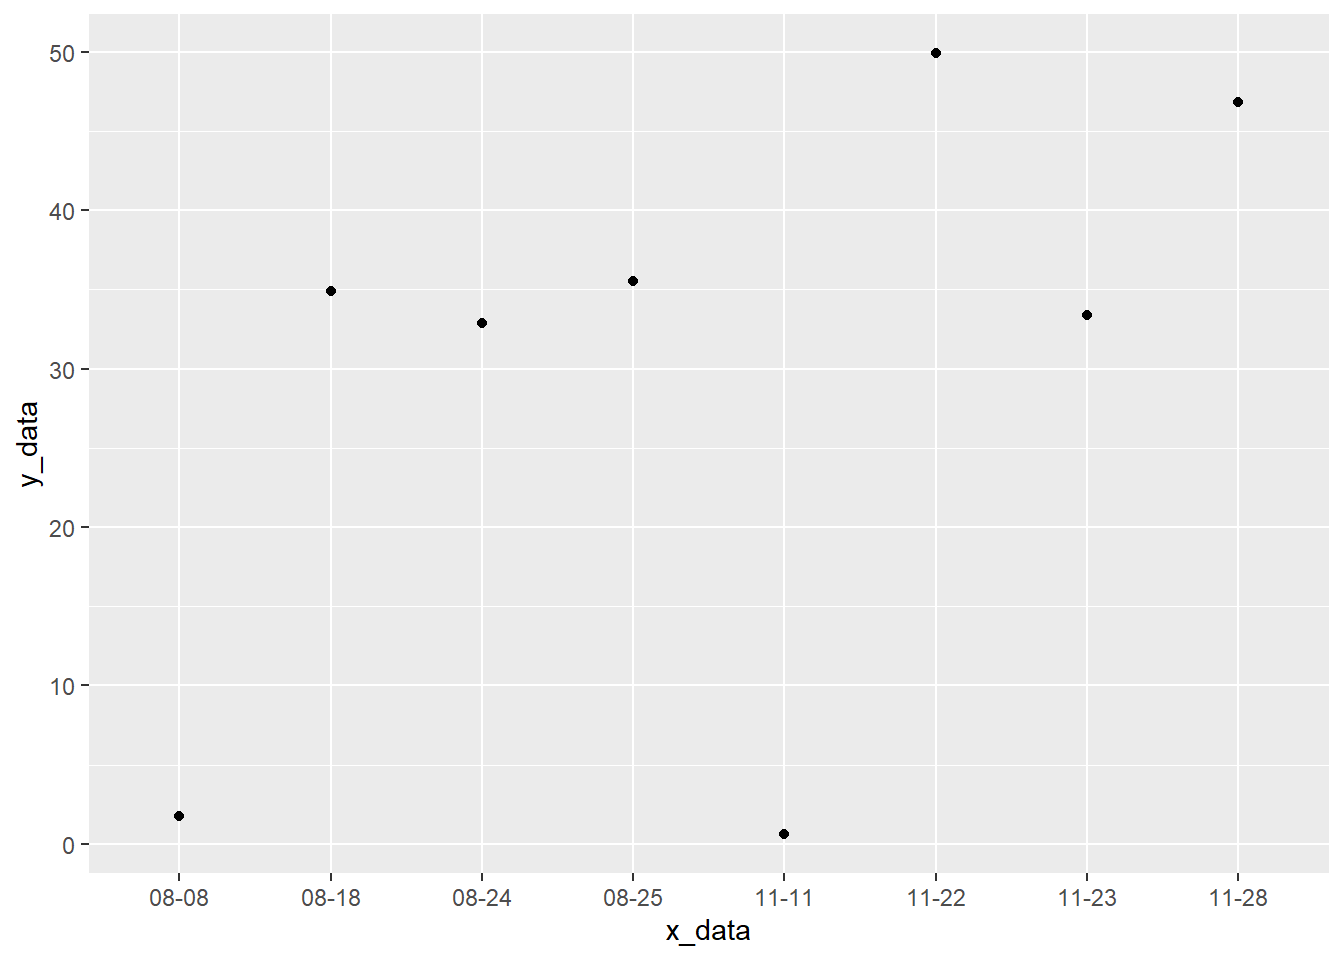
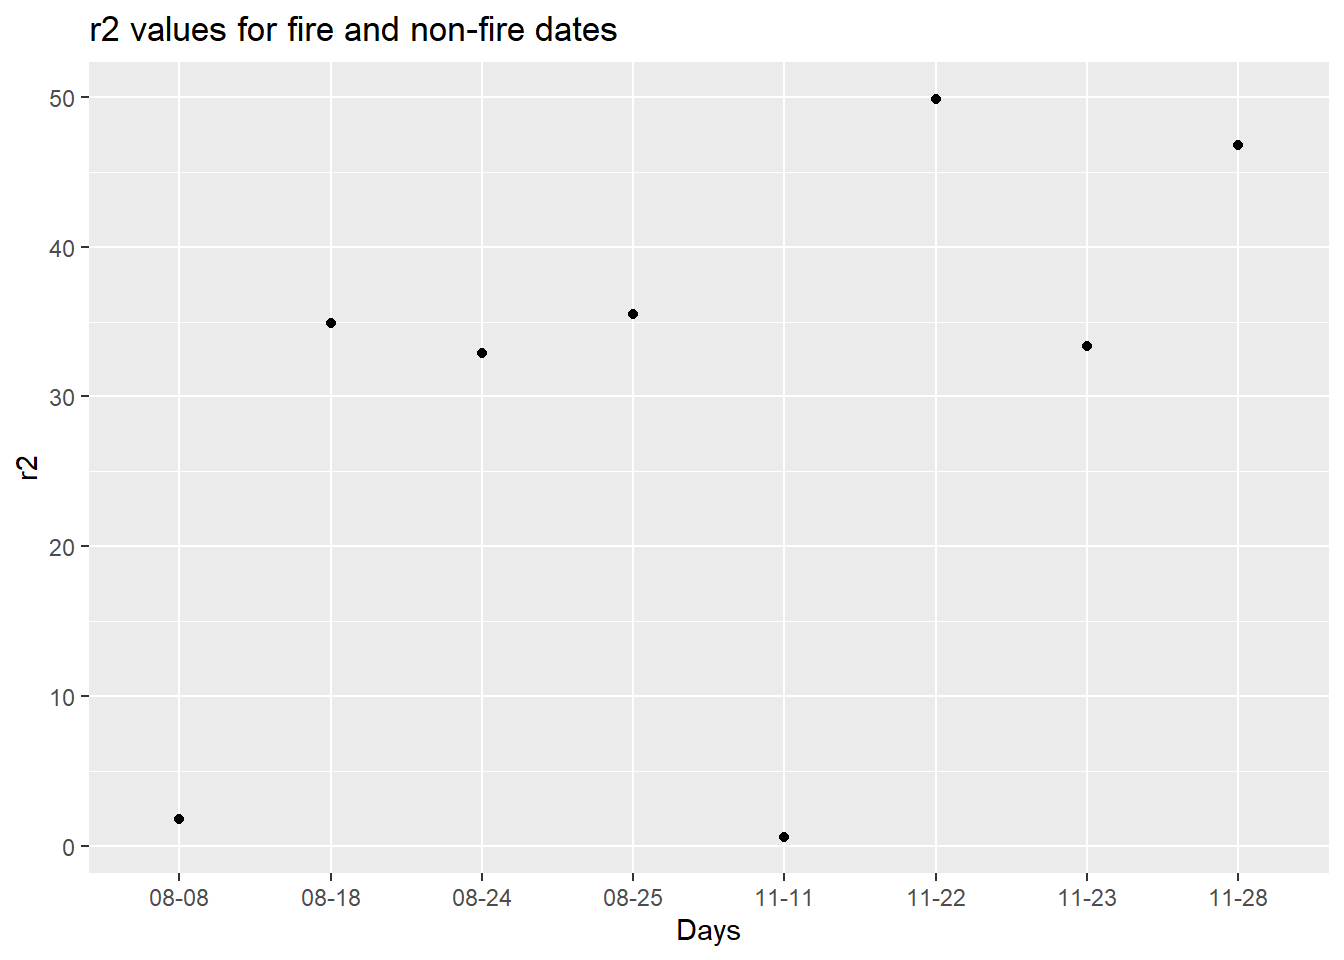
results section added

diff --git a/docs/Proj.html b/docs/Proj.html
@@ -1214,17 +1214,20 @@ abline(h=c(0), col=c(&quot;blue&quot;))</code></pre>
 </div>
 <div id="results-and-discussions" class="section level1">
 <h1>Results and Discussions</h1>
-<div id="regression-analysis-1" class="section level2">
-<h2>Regression Analysis</h2>
-</div>
-<div id="bias-and-error-analysis" class="section level2">
-<h2>Bias and Error Analysis</h2>
-<pre class="r"><code>bias_plot </code></pre>
+<div id="regression-bias-and-error-analysis" class="section level2">
+<h2>Regression, Bias and Error Analysis</h2>
+<pre class="r"><code>r2_plot </code></pre>
 <p><img src="Proj_files/figure-html/unnamed-chunk-65-1.png" width="672" /></p>
 <pre class="r"><code>geos_conc_plot</code></pre>
 <p><img src="Proj_files/figure-html/unnamed-chunk-65-2.png" width="672" /></p>
 <pre class="r"><code>trop_conc_plot</code></pre>
 <p><img src="Proj_files/figure-html/unnamed-chunk-65-3.png" width="672" /></p>
+<pre class="r"><code>bias_plot </code></pre>
+<p><img src="Proj_files/figure-html/unnamed-chunk-65-4.png" width="672" /></p>
+<p>The above shown tropomi and geos interpolated tropomi plots show that concentrations of NO<sub>2</sub> were high on days which had significant amount of fire counts as compared to the days which didn’t have any fire counts. This leads to a conclusion that concentration of NO<sub>2</sub> is directly correlated with fire counts.</p>
+<p>r2 here represents the correlation coefficient between TROPOMI data and predicted TROPOMI data, i.e., which is based on the regression models. When we observe the r2 plot we can see that the correlation coefficient is high for the days which doesn’t have any fire counts as compared to the days which have significant amount of fire counts, this shows that linear regression model fits good for days which have a low mean NO<sub>2</sub> concentration than for days that have high mean NO<sub>2</sub> concentration. We can also say that linear regression fits best for the days which don’t have any fire counts as compared to the days which have fire counts.</p>
+<p>From the bias plot we can also say that TROPOMI and GEOS-Interpolated TROPOMI NO<sub>2</sub> data correlated to a grater extent for days which didn’t have fire counts as compared with the days that had fire counts.</p>
+<p>The above statements could lead us to a conclusion that satellite and TROPOMI data correlated well for non-fire days as compared to the days which had fire counts.</p>
 </div>
 </div>
 
